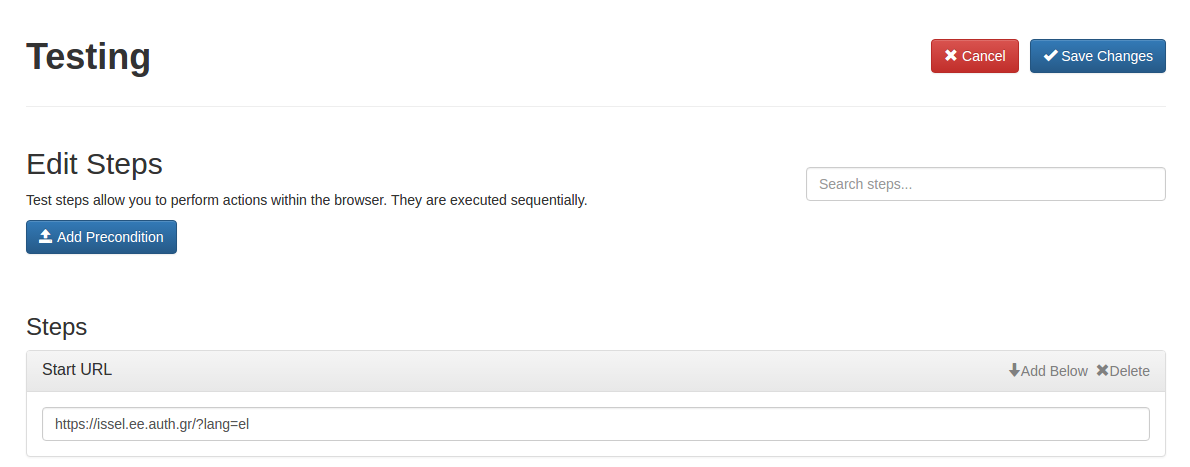
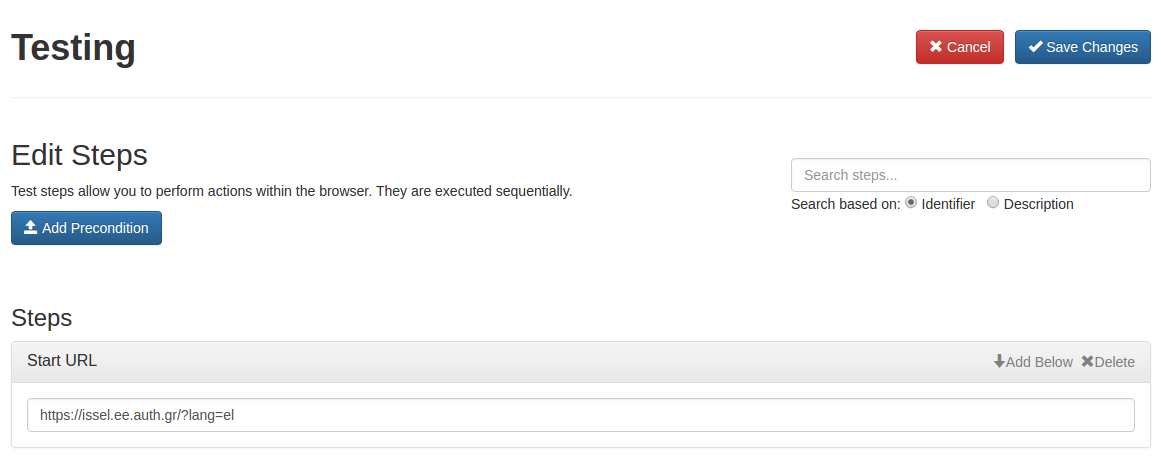
Add files via upload

diff --git a/web-recorder-frontend/src/app/documentation/documentation.component.html b/web-recorder-frontend/src/app/documentation/documentation.component.html
@@ -330,7 +330,7 @@
                         <h3 class="panel-title"><b>Request</b></h3>
                     </div>
                     <div class="panel-body">
-                        <h4><code>GET</code>&nbsp;&nbsp;{{serverURL}}&lt;id&gt;/&lt;suite&gt;</h4>
+                        <h4><code>GET</code>&nbsp;&nbsp;{{serverURL}}&lt;id&gt;/suites/&lt;suite&gt;</h4>
                     </div>
                 </div>
                 <div class="panel panel-default">
@@ -406,7 +406,7 @@
                         <h3 class="panel-title"><b>Request</b></h3>
                     </div>
                     <div class="panel-body">
-                        <h4><code>GET</code>&nbsp;&nbsp;{{serverURL}}&lt;id&gt;/&lt;suite&gt;/history</h4>
+                        <h4><code>GET</code>&nbsp;&nbsp;{{serverURL}}&lt;id&gt;/suites/&lt;suite&gt;/history</h4>
                     </div>
                 </div>
                 <div class="panel panel-default">
@@ -448,7 +448,7 @@
                         <h3 class="panel-title"><b>Request</b></h3>
                     </div>
                     <div class="panel-body">
-                        <h4><code>GET</code>&nbsp;&nbsp;{{serverURL}}&lt;id&gt;/&lt;suite&gt;/history/&lt;history_id&gt;</h4>
+                        <h4><code>GET</code>&nbsp;&nbsp;{{serverURL}}&lt;id&gt;/suites/&lt;suite&gt;/history/&lt;history_id&gt;</h4>
                     </div>
                 </div>
                 <div class="panel panel-default">
@@ -498,7 +498,7 @@
                         <h3 class="panel-title"><b>Request</b></h3>
                     </div>
                     <div class="panel-body">
-                        <h4><code>GET</code>&nbsp;&nbsp;{{serverURL}}&lt;id&gt;/&lt;suite&gt;/history/&lt;history_id&gt;/&lt;test&gt;</h4>
+                        <h4><code>GET</code>&nbsp;&nbsp;{{serverURL}}&lt;id&gt;/suites/&lt;suite&gt;/history/&lt;history_id&gt;/&lt;test&gt;</h4>
                     </div>
                 </div>
                 <div class="panel panel-default">
@@ -590,7 +590,7 @@
                         <h3 class="panel-title"><b>Request</b></h3>
                     </div>
                     <div class="panel-body">
-                        <h4><code>PUT</code>&nbsp;&nbsp;{{serverURL}}&lt;id&gt;/&lt;suite&gt;/settings</h4>
+                        <h4><code>PUT</code>&nbsp;&nbsp;{{serverURL}}&lt;id&gt;/suites/&lt;suite&gt;/settings</h4>
                     </div>
                 </div>
                 <div class="panel panel-default">
@@ -632,7 +632,7 @@
                         <h3 class="panel-title"><b>Request</b></h3>
                     </div>
                     <div class="panel-body">
-                        <h4><code>PUT</code>&nbsp;&nbsp;{{serverURL}}&lt;id&gt;/&lt;suite&gt;/history</h4>
+                        <h4><code>PUT</code>&nbsp;&nbsp;{{serverURL}}&lt;id&gt;/suites/&lt;suite&gt;/history</h4>
                     </div>
                 </div>
                 <div class="panel panel-default">
@@ -666,7 +666,7 @@
                         <h3 class="panel-title"><b>Request</b></h3>
                     </div>
                     <div class="panel-body">
-                        <h4><code>PUT</code>&nbsp;&nbsp;{{serverURL}}&lt;id&gt;/&lt;suite&gt;</h4>
+                        <h4><code>PUT</code>&nbsp;&nbsp;{{serverURL}}&lt;id&gt;/suites/&lt;suite&gt;</h4>
                     </div>
                 </div>
                 <div class="panel panel-default">
@@ -700,7 +700,7 @@
                         <h3 class="panel-title"><b>Request</b></h3>
                     </div>
                     <div class="panel-body">
-                        <h4><code>PUT</code>&nbsp;&nbsp;{{serverURL}}&lt;id&gt;/&lt;suite&gt;/history/&lt;history_id&gt;</h4>
+                        <h4><code>PUT</code>&nbsp;&nbsp;{{serverURL}}&lt;id&gt;/suites/&lt;suite&gt;/history/&lt;history_id&gt;</h4>
                     </div>
                 </div>
                 <div class="panel panel-default">
@@ -742,7 +742,7 @@
                         <h3 class="panel-title"><b>Request</b></h3>
                     </div>
                     <div class="panel-body">
-                        <h4><code>PUT</code>&nbsp;&nbsp;{{serverURL}}&lt;id&gt;/&lt;suite&gt;/history/&lt;history_id&gt;/&lt;test&gt;</h4>
+                        <h4><code>PUT</code>&nbsp;&nbsp;{{serverURL}}&lt;id&gt;/suites/&lt;suite&gt;/history/&lt;history_id&gt;/&lt;test&gt;</h4>
                     </div>
                 </div>
                 <div class="panel panel-default">
@@ -795,7 +795,7 @@
                         <h3 class="panel-title"><b>Request</b></h3>
                     </div>
                     <div class="panel-body">
-                        <h4><code>GET</code>&nbsp;&nbsp;{{serverURL}}&lt;id&gt;/&lt;suite&gt;/tests</h4>
+                        <h4><code>GET</code>&nbsp;&nbsp;{{serverURL}}&lt;id&gt;/suites/&lt;suite&gt;/tests</h4>
                     </div>
                 </div>
                 <div class="panel panel-default">
@@ -837,7 +837,7 @@
                         <h3 class="panel-title"><b>Request</b></h3>
                     </div>
                     <div class="panel-body">
-                        <h4><code>GET</code>&nbsp;&nbsp;{{serverURL}}&lt;id&gt;/&lt;suite&gt;/tests/&lt;test&gt;</h4>
+                        <h4><code>GET</code>&nbsp;&nbsp;{{serverURL}}&lt;id&gt;/suites/&lt;suite&gt;/tests/&lt;test&gt;</h4>
                     </div>
                 </div>
                 <div class="panel panel-default">
@@ -887,7 +887,7 @@
                         <h3 class="panel-title"><b>Request</b></h3>
                     </div>
                     <div class="panel-body">
-                        <h4><code>GET</code>&nbsp;&nbsp;{{serverURL}}&lt;id&gt;/&lt;suite&gt;/names</h4>
+                        <h4><code>GET</code>&nbsp;&nbsp;{{serverURL}}&lt;id&gt;/suites/&lt;suite&gt;/names</h4>
                     </div>
                 </div>
                 <div class="panel panel-default">
@@ -929,7 +929,7 @@
                         <h3 class="panel-title"><b>Request</b></h3>
                     </div>
                     <div class="panel-body">
-                        <h4><code>GET</code>&nbsp;&nbsp;{{serverURL}}&lt;id&gt;/&lt;suite&gt;/tests/&lt;test&gt;/history/&lt;history_id&gt;</h4>
+                        <h4><code>GET</code>&nbsp;&nbsp;{{serverURL}}&lt;id&gt;/suites/&lt;suite&gt;/tests/&lt;test&gt;/history/&lt;history_id&gt;</h4>
                     </div>
                 </div>
                 <div class="panel panel-default">
@@ -987,7 +987,7 @@
                         <h3 class="panel-title"><b>Request</b></h3>
                     </div>
                     <div class="panel-body">
-                        <h4><code>GET</code>&nbsp;&nbsp;{{serverURL}}&lt;id&gt;/&lt;suite&gt;/tests/&lt;test&gt;/result</h4>
+                        <h4><code>GET</code>&nbsp;&nbsp;{{serverURL}}&lt;id&gt;/suites/&lt;suite&gt;/tests/&lt;test&gt;/result</h4>
                     </div>
                 </div>
                 <div class="panel panel-default">
@@ -1180,6 +1180,14 @@
                         </div>
                         <div class="row">
                             <div class="col-md-3" align="right">
+                                <h4><code>pause</code></h4>
+                            </div>
+                            <div class="col-md-9">
+                                <h4>Pause for a specific amount of time. The time is specific in milliseconds, so a value of 1000 will pause the test for 1 second.</h4>
+                            </div>
+                        </div>
+                        <div class="row">
+                            <div class="col-md-3" align="right">
                                 <h4><code>present</code></h4>
                             </div>
                             <div class="col-md-9">
@@ -1345,7 +1353,7 @@
                         <h3 class="panel-title"><b>Request</b></h3>
                     </div>
                     <div class="panel-body">
-                        <h4><code>PUT</code>&nbsp;&nbsp;{{serverURL}}&lt;id&gt;/&lt;suite&gt;/tests/&lt;test&gt;/updateid</h4>
+                        <h4><code>PUT</code>&nbsp;&nbsp;{{serverURL}}&lt;id&gt;/suites/&lt;suite&gt;/tests/&lt;test&gt;/updateid</h4>
                     </div>
                 </div>
                 <div class="panel panel-default">
@@ -1395,7 +1403,7 @@
                         <h3 class="panel-title"><b>Request</b></h3>
                     </div>
                     <div class="panel-body">
-                        <h4><code>PUT</code>&nbsp;&nbsp;{{serverURL}}&lt;id&gt;/&lt;suite&gt;/tests/&lt;test&gt;/edit</h4>
+                        <h4><code>PUT</code>&nbsp;&nbsp;{{serverURL}}&lt;id&gt;/suites/&lt;suite&gt;/tests/&lt;test&gt;/edit</h4>
                     </div>
                 </div>
                 <div class="panel panel-default">
@@ -1449,7 +1457,7 @@
                         <h3 class="panel-title"><b>Request</b></h3>
                     </div>
                     <div class="panel-body">
-                        <h4><code>PUT</code>&nbsp;&nbsp;{{serverURL}}&lt;id&gt;/&lt;suite&gt;/tests/&lt;test&gt;/update-result</h4>
+                        <h4><code>PUT</code>&nbsp;&nbsp;{{serverURL}}&lt;id&gt;/suites/&lt;suite&gt;/tests/&lt;test&gt;/update-result</h4>
                     </div>
                 </div>
                 <div class="panel panel-default">
@@ -1499,7 +1507,7 @@
                         <h3 class="panel-title"><b>Request</b></h3>
                     </div>
                     <div class="panel-body">
-                        <h4><code>PUT</code>&nbsp;&nbsp;{{serverURL}}&lt;id&gt;/&lt;suite&gt;/tests/&lt;test&gt;/settings</h4>
+                        <h4><code>PUT</code>&nbsp;&nbsp;{{serverURL}}&lt;id&gt;/suites/&lt;suite&gt;/tests/&lt;test&gt;/settings</h4>
                     </div>
                 </div>
                 <div class="panel panel-default">
@@ -1549,7 +1557,7 @@
                         <h3 class="panel-title"><b>Request</b></h3>
                     </div>
                     <div class="panel-body">
-                        <h4><code>PUT</code>&nbsp;&nbsp;{{serverURL}}&lt;id&gt;/&lt;suite&gt;/tests/&lt;test&gt;</h4>
+                        <h4><code>PUT</code>&nbsp;&nbsp;{{serverURL}}&lt;id&gt;/suites/&lt;suite&gt;/tests/&lt;test&gt;</h4>
                     </div>
                 </div>
                 <div class="panel panel-default">
@@ -1591,7 +1599,7 @@
                         <h3 class="panel-title"><b>Request</b></h3>
                     </div>
                     <div class="panel-body">
-                        <h4><code>PUT</code>&nbsp;&nbsp;{{serverURL}}&lt;id&gt;/&lt;suite&gt;/tests/&lt;test&gt;/history/&lt;history_id&gt;</h4>
+                        <h4><code>PUT</code>&nbsp;&nbsp;{{serverURL}}&lt;id&gt;/suites/&lt;suite&gt;/tests/&lt;test&gt;/history/&lt;history_id&gt;</h4>
                     </div>
                 </div>
                 <div class="panel panel-default">

diff --git a/web-recorder-frontend/src/app/edit-steps/edit-steps.component.html b/web-recorder-frontend/src/app/edit-steps/edit-steps.component.html
@@ -62,7 +62,13 @@
         </div>
         <div class="col-md-4">
             <br><br>
-            <input type="text" class="form-control" placeholder="Search steps..." [(ngModel)]="filter.id" (keyup)="changeValue();">
+            <input *ngIf="search === 'id'" type="text" class="form-control" placeholder="Search steps..." [(ngModel)]="filter.id">
+            <input *ngIf="search === 'description'" type="text" class="form-control" placeholder="Search steps..." [(ngModel)]="filter.description">
+            <p>
+                Search based on:
+                <input type="radio" value="id" [(ngModel)]="search"> Identifier &nbsp;
+                <input type="radio" value="description" [(ngModel)]="search"> Description &nbsp;
+            </p>
         </div>
     </div>
 

diff --git a/web-recorder-frontend/src/app/edit-steps/edit-steps.component.ts b/web-recorder-frontend/src/app/edit-steps/edit-steps.component.ts
@@ -23,6 +23,7 @@ export class EditStepsComponent implements OnInit {
   applyToAllIndex: number;
   suites: any[];
   filter: TestObject = new TestObject();
+  search = 'id';
 
   // tslint:disable-next-line:max-line-length
   constructor(private postsService: PostsService, private router: Router, route: ActivatedRoute, private authenticationService: AuthService) {
@@ -50,10 +51,6 @@ export class EditStepsComponent implements OnInit {
             return a.localeCompare(b);
       });
     });
-  }
-
-  changeValue() {
-    this.filter.description = this.filter.id;
   }
 
   onSave() {

diff --git a/web-recorder-frontend/src/app/documentation/documentation.component.ts b/web-recorder-frontend/src/app/documentation/documentation.component.ts
@@ -8,7 +8,7 @@ import { Component, OnInit } from '@angular/core';
 export class DocumentationComponent implements OnInit {
   pageId = 'Getting Started';
   headline = 'Documentation';
-  serverURL = 'http://snf-750380.vm.okeanos.grnet.gr:4000/users/';
+  serverURL = 'http://snf-750380.vm.okeanos.grnet.gr:4000/';
   websiteURL = 'http://snf-750380.vm.okeanos.grnet.gr:8080';
 
   constructor() { }

diff --git a/web-recorder-frontend/src/app/search-steps.pipe.ts b/web-recorder-frontend/src/app/search-steps.pipe.ts
@@ -20,9 +20,7 @@ export class SearchStepsPipe implements PipeTransform {
       if (filter[field]) {
         if (object[field].toLowerCase().indexOf(filter[field].toLowerCase()) === -1) {
           return false;
-        }
-
-        break;
+        };
       }
     }
 

diff --git a/web-recorder-frontend/src/app/services/auth.service.ts b/web-recorder-frontend/src/app/services/auth.service.ts
@@ -6,7 +6,7 @@ import 'rxjs/add/operator/map';
 
 @Injectable()
 export class AuthService {
-  serverURL = 'http://localhost:4000/';
+  serverURL = 'http://snf-750380.vm.okeanos.grnet.gr:4000/';
 
   constructor(private http: Http, private router: Router) { }
 

diff --git a/web-recorder-frontend/src/app/services/posts.service.ts b/web-recorder-frontend/src/app/services/posts.service.ts
@@ -4,7 +4,7 @@ import { User } from '../user';
 
 @Injectable()
 export class PostsService {
-  serverURL = 'http://localhost:4000/';
+  serverURL = 'http://snf-750380.vm.okeanos.grnet.gr:4000/';
 
   constructor(private http: Http) { }
 
